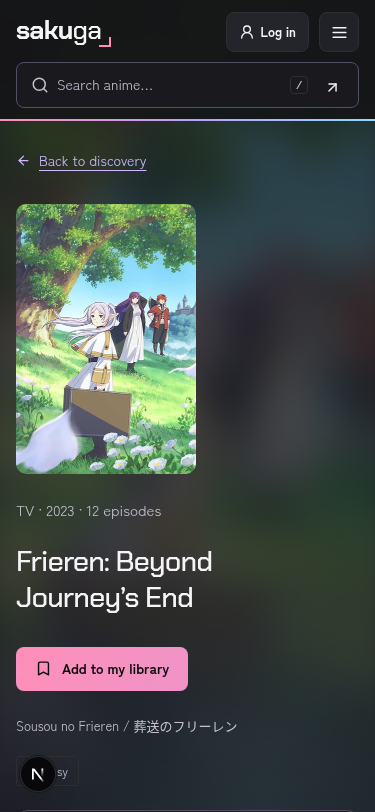
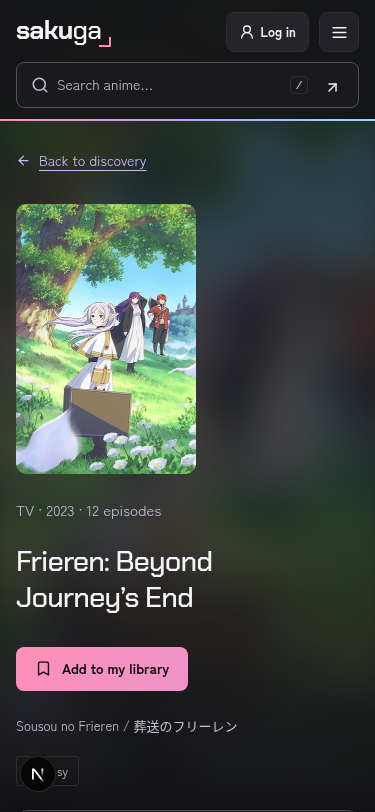
Restore charcoal canvas and confine gradients to small accents

Changed region(s): [[0.3227, 0.8929, 1.0, 1.0]]

diff --git a/app/spectrum.css b/app/spectrum.css
@@ -5,9 +5,6 @@
   --surface-raised: #24242b;
   --secondary: #d0b9ff;
   --text-muted: #c4bfd1;
-  --field-rose: color-mix(in srgb, var(--primary) 18%, var(--bg));
-  --field-violet: color-mix(in srgb, var(--secondary) 18%, var(--bg));
-  --field-blue: color-mix(in srgb, var(--spectrum-cool) 15%, var(--bg));
   --art-veil: 74%;
   --spectrum: linear-gradient(
     115deg,
@@ -21,35 +18,7 @@ body {
   isolation: isolate;
   background-image: none;
 }
-body:before {
-  content: "";
-  position: fixed;
-  inset: 0;
-  z-index: -2;
-  pointer-events: none;
-  background:
-    radial-gradient(
-      ellipse 95% 95% at 0 12%,
-      var(--field-rose),
-      transparent 76%
-    ),
-    radial-gradient(
-      ellipse 100% 110% at 100% 0,
-      var(--field-violet),
-      transparent 78%
-    ),
-    radial-gradient(
-      ellipse 90% 90% at 70% 100%,
-      var(--field-blue),
-      transparent 80%
-    ),
-    linear-gradient(
-      145deg,
-      color-mix(in srgb, var(--primary) 5%, var(--bg)),
-      color-mix(in srgb, var(--secondary) 8%, var(--bg)) 50%,
-      color-mix(in srgb, var(--spectrum-cool) 5%, var(--bg))
-    );
-}
+
 .anime-atmosphere {
   position: fixed;
   inset: 0;
@@ -76,16 +45,10 @@ body:before {
   background: color-mix(in srgb, var(--bg) var(--art-veil), transparent);
 }
 :root[data-appearance="light"] {
-  --field-rose: color-mix(in srgb, var(--primary) 11%, var(--bg));
-  --field-violet: color-mix(in srgb, var(--spectrum-violet) 11%, var(--bg));
-  --field-blue: color-mix(in srgb, var(--spectrum-cool) 13%, var(--bg));
   --art-veil: 92%;
 }
 @media (prefers-color-scheme: light) {
   :root[data-appearance="system"] {
-    --field-rose: color-mix(in srgb, var(--primary) 11%, var(--bg));
-    --field-violet: color-mix(in srgb, var(--spectrum-violet) 11%, var(--bg));
-    --field-blue: color-mix(in srgb, var(--spectrum-cool) 13%, var(--bg));
     --art-veil: 92%;
   }
 }
@@ -453,4 +416,19 @@ input[type="radio"] {
   .discover-scene .featured-content {
     padding: 0 6px 12px;
   }
+}
+
+/* Charcoal is the canvas; spectrum color is confined to compact accents. */
+.journal-intro,
+.discovery-feature,
+.catalog-popular .shelf-heading,
+.catalog-strip,
+.catalog-strip:nth-of-type(even),
+.catalog-rows,
+.editor,
+.billing-panel,
+.sidebar,
+.season-picker select,
+.library-table thead {
+  background: var(--surface);
 }

diff --git a/DESIGN.md b/DESIGN.md
@@ -175,7 +175,7 @@ Main adaptation breakpoints are 1700px, 1100px, 800px and 600px. Choose usable p
 
 ## Elevation & Depth
 
-Depth combines full-viewport pink, violet and blue fields, brighter section gradients, tinted borders and selective translucency. `body:before` is a fixed, static field behind the page, so color remains present below the introduction. The field mixes primary 36%, secondary 36% and cool blue 29% into the base, over a related diagonal foundation. Light/system-light fields use 16%, 16% and 19% respectively. Dark secondary and muted text are lighter for contrast. The intro uses 52% pink, 46% secondary and 40% cool blue; the feature uses 19% pink, 9% secondary and 17% cool blue. Release panels and editors use related stronger tints. Public and workspace headers use 84% base opacity with 12px blur. Search surfaces stay readable and turn solid on focus; the sidebar blends 16% secondary and 7% cool blue into the surface. Reduced transparency makes headers and synopsis surfaces opaque and hides the artwork backdrop. Saved appearance/custom-accent preferences remain compatible.
+Depth uses solid charcoal #131316 with neutral #1b1b20 surfaces and #24242b raised controls. There is no body atmosphere pseudo-element or full-page gradient. Large introductions, shelves, editors, sidebar and table headers stay neutral. Saturated spectrum gradients appear on compact primary buttons, thin navigation rules, scroll progress and the existing border lights. The selected-anime artwork backdrop still fades into plain charcoal. Header translucency and opaque reduced-transparency fallbacks remain.
 
 Search popovers use `0 14px 30px #0003`; hovered posters use `0 14px 28px #0005`; the mobile drawer uses `12px 0 30px #0005`. Resting content does not acquire a shadow cloud. Interaction transitions use 160ms and `cubic-bezier(0.22, 1, 0.36, 1)`; popovers enter by 5px. Loading skeletons reserve geometry and pulse opacity. Reduced motion removes movement/scaling; manual carousel control remains.
 
@@ -242,3 +242,8 @@ The approved spectrum is softened to 70% of its previous color mixes against bas
 The final shipping direction uses a stronger #131316 charcoal base, #1b1b20 surfaces and restrained corner accents. All interface audio, its toggle, runtime and bundled files are removed. The header reserves no sound-control space. This supersedes the earlier sampled-audio direction.
 
 Discover now presents a featured anime and separate recent/popular/airing/upcoming shelves. Search owns text queries, filtering and pagination on /search and /app/search. Legacy filtered discover links redirect to their search equivalents; signed-in search preserves QuickAdd. Miruro page text was accessible, but its current Discover visual layout was not exposed, so literal visual parity is not verified.
+
+
+## Charcoal canvas correction
+
+The page-wide atmosphere layer is removed. The canvas is solid charcoal (#131316), with neutral #1b1b20 panels. Large introductions, shelves, editors, sidebar and table headers use flat neutral surfaces. Vivid gradients remain only on compact primary buttons, thin navigation/section edges, scroll indicators and border lights. Selected-anime artwork still fades back to the plain charcoal base.

diff --git a/.impeccable/review/charcoal-canvas.md b/.impeccable/review/charcoal-canvas.md
@@ -1,0 +1,5 @@
+# Charcoal canvas correction
+
+November 11, 2026, America/Chicago. Removed the full-viewport body gradient layer and its unused field tokens. Large panels, shelves, sidebar, table headers and editors now have solid neutral surfaces. Existing small button gradients, edge lights, focus states and indicators retain vivid accent colors. Anime artwork still fades into the solid charcoal base.
+
+Ten focused browser scenarios passed at 375/1440px, covering home/navigation bounds, dark/light accessibility, anime artwork fade and separate Discover/Search behavior. The production build passed. Desktop/mobile captures confirm the neutral page ground and small color accents. No functional code or new dependencies were added.
